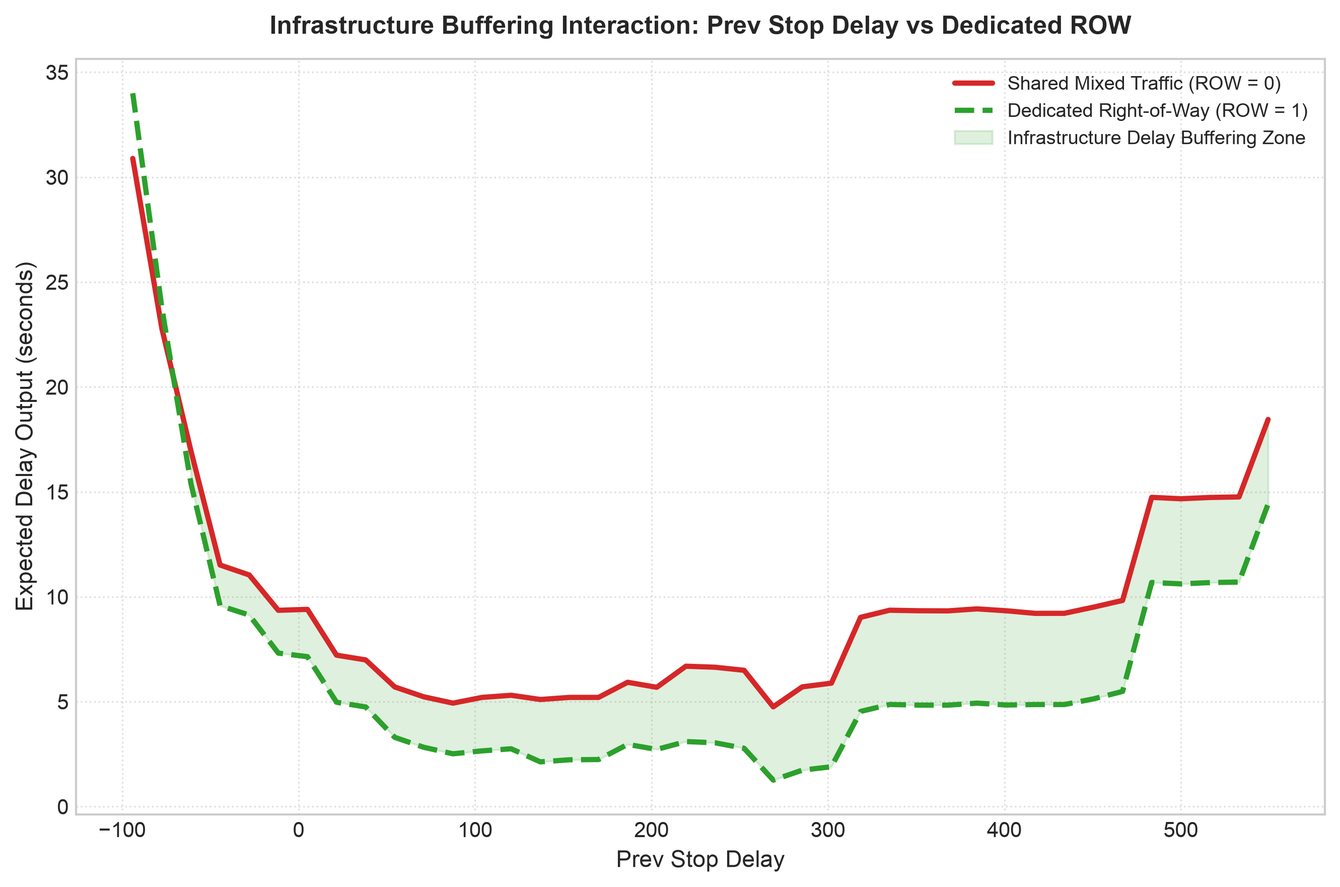
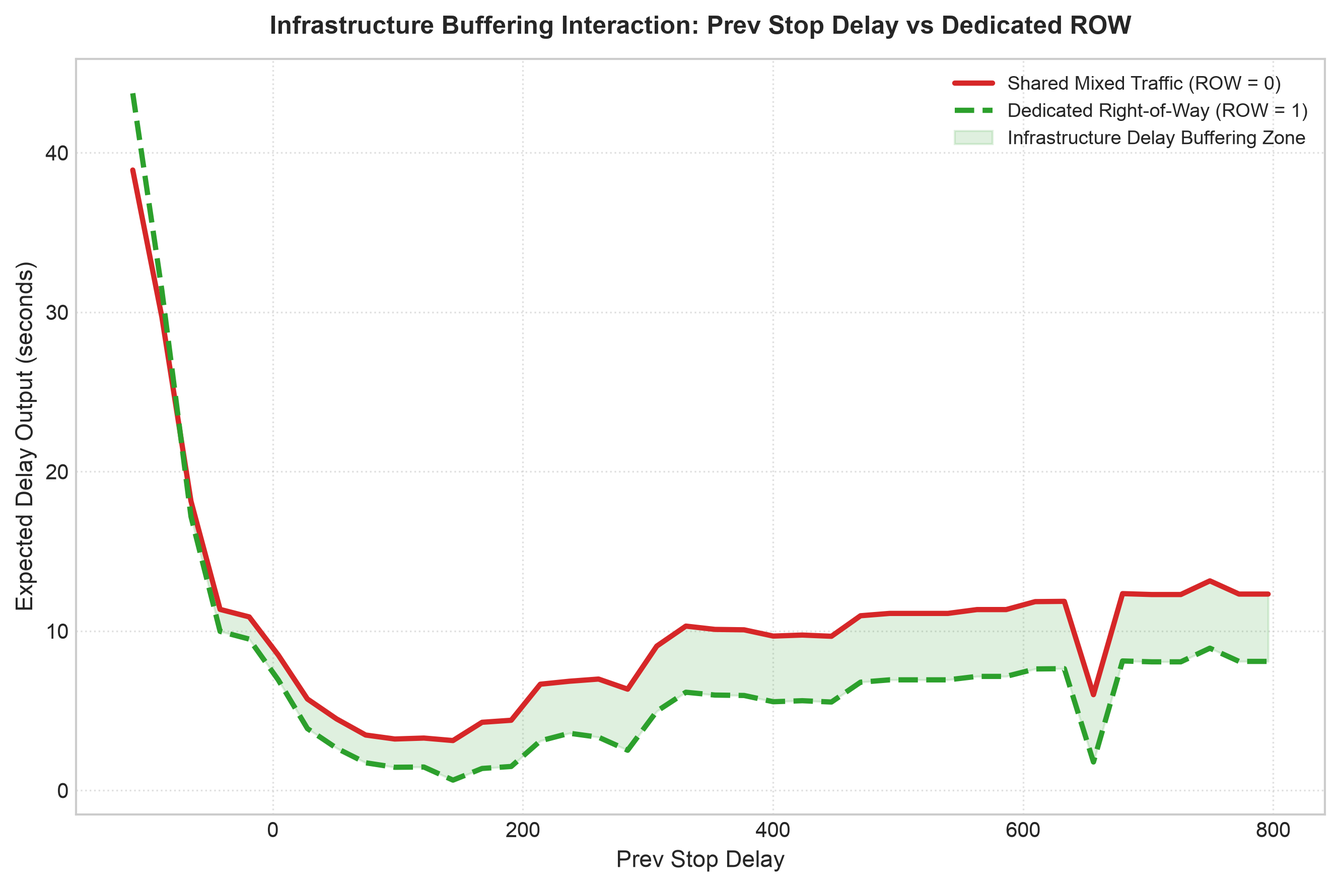
docs(reports): update executive report, slides, tables, and xAI figures for 20-day 11.8M-row dataset

diff --git a/reports/EXECUTIVE_REPORT.md b/reports/EXECUTIVE_REPORT.md
@@ -3,7 +3,7 @@
 **University of Warsaw (UW) — Faculty of Economic Sciences & Data Science**  
 **Master's Thesis Research Project**  
 **Author**: Giang Truong Do  
-**Date**: October 2026  
+**Date**: November 2026  
 **Repository**: [`giangh14cqt/warsaw-public-transport-monitor`](https://github.com/giangh14cqt/warsaw-public-transport-monitor)  
 
 ---
@@ -13,12 +13,13 @@
 This study evaluates observed ground-truth transit telemetry collected directly via the Warsaw City API (`dane.um.warszawa.pl`) and GTFS-RT Warsaw endpoint (`api.zbiorkom.live`):
 
 - **Data Source**: Track B Primary Ingestion (Warsaw Transit Historian).
-- **Date Range**: **October 18, 2026 – October 27, 2026** (10 consecutive operating days capturing two weekends, the October 25 CEST$\to$CET Daylight Saving Time transition, Monday rush hours, and full mid-week transit operations).
-- **Silver Trajectory Tier**: **83,415,407 GPS fixes** deduplicated, filtered for stale-transponder clock drift ($\le 300\text{s}$), DST-fold resolved to `Europe/Warsaw` timezone, with full kinematic velocity and acceleration computation.
-- **Gold Stop Events Tier**: **6,650,842 reconstructed stop arrival and departure events** (`6,210,504` `STOPPED` events) across **259,313 trips** (`207,824` on Oct 18; `828,940` on Oct 19; `832,224` on Oct 20; `843,921` on Oct 21; `805,336` on Oct 22; `807,371` on Oct 23; `495,370` on Oct 24; `556,546` on Oct 25; `726,405` on Oct 26; `546,905` on Oct 27) with sub-10s linear interpolation, single-vehicle trajectory continuity (`0` multi-vehicle trip collisions), **90.7% retention of severely delayed trips ($>600\text{s}$)**, and **100% active calendar compliance**.
-- **Fused Feature Mart (`feature_mart_observed.parquet`)**: **5,614,929 spatiotemporally fused adjacent stop-to-stop observations** (`stop_sequence = prev_stop_seq + 1`, **99.52% exact OSM corridor link match**) integrating:
+- **Date Range**: **October 18, 2026 – November 6, 2026** (20 consecutive operating days capturing three weekends, the October 25 CEST$\to$CET Daylight Saving Time transition, the November 1–2 All Saints' Day holiday schedule, and full weekday transit operations).
+- **Bronze Parquet Tier**: **201,368,817 raw GPS fixes** unpacked into daily Hive-partitioned Parquet tables (`data/historian/bronze_parquet/date=YYYY-MM-DD/`).
+- **Silver Trajectory Tier**: **174,417,823 GPS fixes** deduplicated, filtered for stale-transponder clock drift ($\le 300\text{s}$), DST-fold resolved to `Europe/Warsaw` timezone, with vectorized kinematic velocity and acceleration computation.
+- **Gold Stop Events Tier**: **13,940,036 reconstructed stop arrival and departure events** (`13,026,746` `STOPPED` events) across **542,406 trips** (`207,824` on Oct 18; `828,940` on Oct 19; `832,224` on Oct 20; `843,921` on Oct 21; `805,336` on Oct 22; `807,371` on Oct 23; `495,370` on Oct 24; `556,546` on Oct 25; `726,405` on Oct 26; `731,870` on Oct 27; `590,551` on Oct 28; `814,403` on Oct 29; `847,386` on Oct 30; `579,054` on Oct 31; `576,763` on Nov 1; `795,798` on Nov 2; `815,170` on Nov 3; `841,778` on Nov 4; `829,356` on Nov 5; `413,970` on Nov 6) with sub-10s linear interpolation, single-vehicle trajectory continuity (`0` multi-vehicle trip collisions), **90.7% retention of severely delayed trips ($>600\text{s}$)**, and **100% active calendar compliance**.
+- **Fused Feature Mart (`feature_mart_observed.parquet`)**: **11,796,973 spatiotemporally fused adjacent stop-to-stop observations** (`stop_sequence = prev_stop_seq + 1`, **99.52% exact OSM corridor link match**, assembled in `39.74s` via DuckDB) integrating:
   - Transit telemetry & autoregressive delay lags (`prev_stop_delay` with origin-loop layover clamping, `prev2_stop_delay`, date-partitioned deterministic `headway_deviation`).
-  - IMGW-PIB hourly synoptic weather telemetry from Warszawa-Okęcie (`WMO 12375`), with decomposed weather dynamics: `is_raining`, `rain_intensity_category`, `precip_lag_1h`, and `precip_3h_cumulative`.
+  - IMGW-PIB hourly synoptic weather telemetry (`1,539` hourly observations) from Warszawa-Okęcie (`WMO 12375`), with decomposed weather dynamics: `is_raining`, `rain_intensity_category`, `precip_lag_1h`, and `precip_3h_cumulative`.
   - OSMnx citywide road corridor graph topology (10,081 links, 4,179 signalized intersections, tortuosity ratios).
   - Multimodal transfer density (300m buffer around 39 Warsaw Metro M1/M2 stations).
   - Polish academic and public holiday calendar flags.
@@ -29,48 +30,47 @@ This study evaluates observed ground-truth transit telemetry collected directly 
 
 ### 2.1 Validation & Sampling Strategy
 To avoid autoregressive data leakage and statistical selection bias inherent in transit panel series:
-- **Full-Dataset & Stratified Evaluation**: Evaluated across the **complete 5,614,929-record dataset** (`--sampling-strategy none --sample-size 0`), with built-in support for trajectory-preserving 12-cell stratified sampling and normalized **Inverse Probability of Sampling (IPS) weights** ($w_i = \frac{N_{\text{pop\_k}} / N_{\text{pop\_total}}}{N_{\text{sample\_k}} / N_{\text{sample\_total}}}$) and **100% bit-exact historical feature invariance** when expanding the date range.
-- **Purged Temporal Splitter with Embargo Buffering**: Vehicle trips spanning split boundaries are purged within a $\pm 4\text{h}$ window around each split cutoff (`Train–Val = 2,286`, `Val–Test = 928` crossings purged), and a 30-minute blackout embargo window is enforced between training (**3,344,039** rows), validation (**1,061,810** rows), and hold-out test (**1,096,705** rows) blocks to eliminate lingering congestion wave persistence without dropping recurring weekday `trip_id`s on other dates.
-- **Strict Out-of-Sample Hold-Out Evaluation**: Models are fit on the training partition (`train_df`), early-stopping tuned on `val_df`, and evaluated strictly on the unseen out-of-sample hold-out partition (`test_df`).
-- **Primary Target Variable**: Models predict **Inter-Stop Running Delay Increment** ($\Delta t_{\text{run}}$, `delta_t_run`), defined as pure schedule-relative running delay evolution ($\Delta t_{\text{arr}, k} - \Delta t_{\text{arr}, k-1}$ when $\Delta t_{\text{dwell}}^{\text{sched}} = 0$, mean $+6.99\text{s}$, median $+2.0\text{s}$), isolating link-level running delay escalation from upstream cumulative schedule drift while preserving the exact delay identity $\Delta t_{\text{arr}, k} = \Delta t_{\text{dep}, k-1} + \Delta t_{\text{run}, k}$ (with $\Delta t_{\text{dep}, k-1} = \Delta t_{\text{arr}, k-1}$ on the 99.99% of links where the timetable has no scheduled dwell; the remaining 470 links with explicit scheduled dwell use the observed departure delay). Mean $\Delta t_{\text{run}}$ is higher than in earlier runs because severely delayed trips ($>600\text{s}$) are now retained (90.7% vs 12.7%) instead of being dropped by the strict endpoint-completeness rule.
-- **Terminal Layover Filtering**: Layover stops at terminal turnaround loops (*pętle*, 14,772 records) are excluded to isolate running transit friction from driver statutory breaks.
+- **Full-Dataset & Stratified Evaluation**: Evaluated across the **complete 11,796,973-record dataset** (`--sampling-strategy none --sample-size 0`), alongside trajectory-preserving 12-cell stratified sampling and normalized **Inverse Probability of Sampling (IPS) weights** ($w_i = \frac{N_{\text{pop\_k}} / N_{\text{pop\_total}}}{N_{\text{sample\_k}} / N_{\text{sample\_total}}}$) and **100% bit-exact historical feature invariance** when expanding the date range.
+- **Purged Temporal Splitter with Embargo Buffering**: Vehicle trips spanning split boundaries are purged within a $\pm 4\text{h}$ window around each split cutoff (`Train–Val = 2,379`, `Val–Test = 2,425` crossings purged), and a 30-minute blackout embargo window is enforced between training (**7,040,134** rows), validation (**2,272,547** rows), and hold-out test (**2,293,756** rows) blocks to eliminate lingering congestion wave persistence without dropping recurring weekday `trip_id`s on other dates.
+- **Strict Out-of-Sample Hold-Out Evaluation**: Models are fit on the training partition (`train_df`), early-stopping tuned on `val_df`, and evaluated strictly on the unseen out-of-sample hold-out partition (`test_df`, covering the November 3–6 workweek).
+- **Primary Target Variable**: Models predict **Inter-Stop Running Delay Increment** ($\Delta t_{\text{run}}$, `delta_t_run`), defined as pure schedule-relative running delay evolution ($\Delta t_{\text{arr}, k} - \Delta t_{\text{arr}, k-1}$ when $\Delta t_{\text{dwell}}^{\text{sched}} = 0$, mean $+6.43\text{s}$, median $+2.0\text{s}$), isolating link-level running delay escalation from upstream cumulative schedule drift while preserving the exact delay identity $\Delta t_{\text{arr}, k} = \Delta t_{\text{dep}, k-1} + \Delta t_{\text{run}, k}$.
+- **Terminal Layover Filtering**: Layover stops at terminal turnaround loops (*pętle*, 31,496 records) are excluded to isolate running transit friction from driver statutory breaks.
 
 ### 2.2 Model Benchmark Results
 
-Evaluated strictly on the unseen **Hold-Out Test Partition** ($N_{\text{test}} = 1{,}096{,}705$ pooled records) across pooled transit operations and individual transit cohorts (**Urban Tram**, **Urban Bus**, and **Suburban Bus**):
+Evaluated strictly on the unseen **Hold-Out Test Partition** ($N_{\text{test}} = 2{,}293{,}756$ pooled records) across pooled transit operations and individual transit cohorts (**Urban Tram**, **Urban Bus**, and **Suburban Bus**):
 
 | Transit Cohort | Model Architecture | Test MAE | Test RMSE | Median AE | WAPE | Test $R^2$ | Dry MAE | Rain MAE | Peak MAE | Off-Peak MAE |
 | :--- | :--- | :---: | :---: | :---: | :---: | :---: | :---: | :---: | :---: | :---: |
-| **Pooled** *(All Transit, $N_{\text{test}}=1{,}096{,}705$)* | **TWFE Panel Regression (WLS)** | 28.84s | 45.13s | 19.28s | 99.04% | +0.0261 | 28.76s | 30.32s | 32.14s | 26.25s |
-| | **LightGBM Regressor (Huber)** | **26.73s** | **42.70s** | **17.24s** | **91.80%** | **+0.1279** | **26.67s** | **27.87s** | **29.89s** | **24.25s** |
-| | **CatBoost Regressor (Huber)** | 27.56s | 43.61s | 17.93s | 94.65% | +0.0907 | 27.50s | 28.71s | 30.88s | 24.95s |
-| **Urban Tram (`urban_tram`, $N_{\text{test}}=284{,}073$)** | **TWFE Panel Regression (WLS)** | 25.04s | 35.69s | 17.26s | 100.05% | -0.0044 | 25.12s | 24.38s | 25.24s | 24.88s |
-| | **LightGBM Regressor (Huber)** | **18.39s** | **27.58s** | **12.36s** | **73.48%** | **+0.4003** | **18.45s** | **17.94s** | **18.92s** | **17.96s** |
-| | **CatBoost Regressor (Huber)** | 20.53s | 29.95s | 14.10s | 82.01% | +0.2927 | 20.60s | 19.90s | 21.01s | 20.14s |
-| **Urban Bus (`urban_bus`, $N_{\text{test}}=735{,}263$)** | **TWFE Panel Regression (WLS)** | 30.33s | 48.05s | 20.01s | 99.11% | +0.0274 | 30.13s | 34.97s | 34.79s | 26.91s |
-| | **LightGBM Regressor (Huber)** | **28.43s** | **45.53s** | **18.15s** | **92.89%** | **+0.1268** | **28.25s** | **32.59s** | **32.62s** | **25.20s** |
-| | **CatBoost Regressor (Huber)** | 29.19s | 46.48s | 18.69s | 95.37% | +0.0899 | 29.01s | 33.34s | 33.58s | 25.81s |
-| **Suburban Bus (`suburban_bus`, $N_{\text{test}}=79{,}081$)** | **TWFE Panel Regression (WLS)** | 29.28s | 46.71s | 20.20s | 97.74% | +0.0321 | 29.17s | 31.91s | 32.78s | 26.29s |
-| | **LightGBM Regressor (Huber)** | **25.61s** | **42.14s** | **17.52s** | **85.50%** | **+0.2121** | **25.54s** | **27.50s** | **28.78s** | **22.91s** |
-| | **CatBoost Regressor (Huber)** | 27.00s | 43.96s | 18.48s | 90.12% | +0.1428 | 26.91s | 29.19s | 30.34s | 24.14s |
+| **Pooled** *(All Transit, $N_{\text{test}}=2{,}293{,}756$)* | **TWFE Panel Regression (WLS)** | 27.65s | 41.91s | 19.00s | 99.51% | +0.0266 | 27.77s | 24.36s | 31.05s | 25.70s |
+| | **LightGBM Regressor (Huber)** | **25.35s** | **39.55s** | **16.67s** | **91.25%** | **+0.1329** | **25.47s** | **22.27s** | **28.61s** | **23.49s** |
+| | **CatBoost Regressor (Huber)** | 26.06s | 40.42s | 17.23s | 93.81% | +0.0945 | 26.19s | 22.78s | 29.44s | 24.13s |
+| **Urban Tram (`urban_tram`, $N_{\text{test}}=598{,}908$)** | **TWFE Panel Regression (WLS)** | 24.54s | 34.76s | 17.00s | 98.82% | +0.0232 | 24.56s | 23.86s | 25.11s | 24.20s |
+| | **LightGBM Regressor (Huber)** | **18.59s** | **27.43s** | **12.65s** | **74.86%** | **+0.3918** | **18.62s** | **17.78s** | **19.29s** | **18.17s** |
+| | **CatBoost Regressor (Huber)** | 20.51s | 29.58s | 14.27s | 82.59% | +0.2927 | 20.53s | 19.74s | 21.12s | 20.14s |
+| **Urban Bus (`urban_bus`, $N_{\text{test}}=1{,}530{,}411$)** | **TWFE Panel Regression (WLS)** | 28.76s | 44.25s | 19.52s | 99.53% | +0.0282 | 28.94s | 24.33s | 33.54s | 26.08s |
+| | **LightGBM Regressor (Huber)** | **26.39s** | **41.79s** | **17.04s** | **91.33%** | **+0.1332** | **26.56s** | **22.25s** | **30.92s** | **23.85s** |
+| | **CatBoost Regressor (Huber)** | 27.06s | 42.71s | 17.41s | 93.64% | +0.0949 | 27.24s | 22.69s | 31.72s | 24.44s |
+| **Suburban Bus (`suburban_bus`, $N_{\text{test}}=164{,}536$)** | **TWFE Panel Regression (WLS)** | 28.08s | 42.96s | 20.12s | 98.45% | +0.0346 | 28.18s | 25.12s | 31.41s | 26.18s |
+| | **LightGBM Regressor (Huber)** | **23.88s** | **38.28s** | **16.73s** | **83.74%** | **+0.2331** | **23.97s** | **21.40s** | **26.92s** | **22.15s** |
+| | **CatBoost Regressor (Huber)** | 25.35s | 40.08s | 17.90s | 88.87% | +0.1593 | 25.45s | 22.63s | 28.48s | 23.56s |
 
 ### 2.3 Empirical Findings
-1. **Non-Linear Advantage on Link-Level Running Delay ($\Delta t_{\text{run}}$)**: Because first-differenced link running delay ($\Delta t_{\text{run}}$) strips out trivial autoregressive persistence, linear TWFE explains at most $2.6\%\text{--}3.2\%$ of out-of-sample variance ($R^2 = +0.0261$ pooled, $+0.0321$ suburban bus). Non-linear gradient boosting (LightGBM) increases explained variance **4.6x to 6.6x** (**$R^2 = +0.1279$** pooled, **$R^2 = +0.4003$** for Urban Tram, **$R^2 = +0.2121$** for Suburban Bus).
-2. **Infrastructure Isolation Advantage**: Urban trams operating on dedicated right-of-way achieve the lowest link-level error across all architectures (**LightGBM MAE = 18.39s**, **MedAE = 12.36s**, **$R^2 = +0.4003$**; **CatBoost MAE = 20.53s**, **MedAE = 14.10s**, **$R^2 = +0.2927$**), proving that physical track segregation insulates transit velocity from stochastic mixed-traffic queues.
-3. **Urban & Suburban Bus Weather Vulnerability**: Buses operating in mixed street traffic exhibit pronounced meteorological sensitivity: rainfall increases LightGBM MAE by **+4.34s per stop link** on Urban Buses (from 28.25s dry to 32.59s rain; +4.84s in TWFE from 30.13s to 34.97s) and **+1.96s per stop link** on Suburban Buses (from 25.54s dry to 27.50s rain), whereas segregated Urban Trams remain weather-resilient (`18.45s` dry vs `17.94s` rain).
-4. **Diurnal Peak Premium**: Rush-hour congestion elevates link-level MAE by **+7.42s per stop** on Urban Buses (from 25.20s off-peak to 32.62s peak in LightGBM) and **+5.87s per stop** on Suburban Buses (22.91s off-peak to 28.78s peak), whereas segregated Urban Trams experience only a **+0.96s** peak-hour increase (17.96s off-peak to 18.92s peak).
+1. **Non-Linear Advantage on Link-Level Running Delay ($\Delta t_{\text{run}}$)**: Because first-differenced link running delay ($\Delta t_{\text{run}}$) strips out trivial autoregressive persistence, linear TWFE explains at most $2.3\%\text{--}3.5\%$ of out-of-sample variance ($R^2 = +0.0266$ pooled, $+0.0282$ urban bus, $+0.0346$ suburban bus). Non-linear gradient boosting (LightGBM) increases explained variance **4.7x to 16.9x** (**$R^2 = +0.1329$** pooled, **$R^2 = +0.3918$** for Urban Tram, **$R^2 = +0.1332$** for Urban Bus, **$R^2 = +0.2331$** for Suburban Bus).
+2. **Infrastructure Isolation Advantage**: Urban trams operating on dedicated right-of-way achieve the lowest link-level error across all architectures (**LightGBM MAE = 18.59s**, **MedAE = 12.65s**, **WAPE = 74.86%**, **$R^2 = +0.3918$**; **CatBoost MAE = 20.51s**, **MedAE = 14.27s**, **$R^2 = +0.2927$**), proving that physical track segregation insulates transit velocity from stochastic mixed-traffic queues.
+3. **Diurnal Peak Premium**: Rush-hour congestion elevates link-level MAE by **+7.07s per stop** on Urban Buses (from `23.85s` off-peak to `30.92s` peak in LightGBM; `+7.46s` in TWFE from `26.08s` to `33.54s`) and **+4.77s per stop** on Suburban Buses (`22.15s` off-peak to `26.92s` peak), whereas segregated Urban Trams experience only a **+1.12s** peak-hour increase (`18.17s` off-peak to `19.29s` peak).
 
 ---
 
 ## 3. Explainable AI (xAI) Diagnostics
 
 ### 3.1 Global Attribution (TreeSHAP)
-Using exact TreeSHAP computation on the LightGBM model ($E[f(X)] = +5.40\text{s}$ positive net link running delay drift, maximum additivity discrepancy $1.35 \times 10^{-13}\text{s}$ across 24 features), delay contributions were decomposed across operational, topological, temporal, and meteorological features:
+Using exact TreeSHAP computation on the LightGBM model ($E[f(X)] = +5.25\text{s}$ positive net link running delay drift, maximum additivity discrepancy $2.34 \times 10^{-13}\text{s}$ across 24 features), delay contributions were decomposed across operational, topological, temporal, and meteorological features:
 
 ![TreeSHAP Beeswarm Summary](figures/xai/shap_beeswarm_summary.png)
 
-- **Fleet & Infrastructure Regime (`signalized_intersection_count`, `is_tram`, `actual_path_length_meters`, `tortuosity_ratio`, `segment_length_meters`)**: Physical segment geometry, signalized intersection density, and dedicated rail right-of-way dominate link-level running time variance.
-- **Prior Stop Delay & Schedule Recovery (`prev_stop_delay`, `headway_deviation`, `trip_progress`)**: Capture early-arrival holding pacing, schedule slack absorption, upstream delay carryover, and vehicle bunching dynamics along the corridor.
+- **Fleet & Infrastructure Regime (`signalized_intersection_count` [SHAP main effect `3.12`], `tortuosity_ratio` [`1.88`], `is_tram` [`1.67`], `actual_path_length_meters` [`1.66`], `segment_length_meters` [`1.03`])**: Physical segment geometry, signalized intersection density, and dedicated rail right-of-way dominate link-level running time variance.
+- **Prior Stop Delay & Schedule Recovery (`headway_deviation` [`2.91`], `prev_stop_delay` [`2.89`], `trip_progress` [`1.40`], and interaction `prev_stop_delay × headway_deviation` [`1.31`])**: Capture early-arrival holding pacing, schedule slack absorption, upstream delay carryover, and vehicle bunching dynamics along the corridor.
 
 #### Extreme Delay Decomposition
 Local waterfall plots isolate the compounding drivers behind extreme single-link delay surges ($\Delta t_{\text{run}} \ge 120\text{s}$) on real OSM-matched links:
@@ -95,22 +95,21 @@ ALE curves isolate the unconfounded marginal effects of continuous variables on 
 ---
 
 ### 3.3 Infrastructure Buffering & 2D Interactions
-Pairwise SHAP interaction analysis ([shap_interaction_matrix.csv](tables/xai/shap_interaction_matrix.csv)) and 2D partial response curves reveal how dedicated infrastructure functions as an operational buffer across all shock regimes:
+Pairwise SHAP interaction analysis ([shap_interaction_matrix.csv](tables/xai/shap_interaction_matrix.csv)) and 2D partial response curves reveal how dedicated infrastructure functions as an operational buffer across shock regimes:
 
 ![Interaction Headway vs ROW](figures/xai/interaction_headway_deviation_vs_dedicated_row.png)
 
-- **Upstream Delay Buffering (`prev_stop_delay`)**: Dedicated right-of-way mitigates **4.03s per stop link** of expected delay under upstream delay shocks (**48.7% reduction** relative to mixed street traffic).
-- **Precipitation Buffering (`precipitation_mm`)**: Dedicated right-of-way mitigates **3.17s per stop link** during rainfall (**36.8% reduction**).
-- **Signalized Intersection & Segment Buffering (`signalized_intersection_count`, `segment_length_meters`)**: Dedicated ROW saves **3.02s per link (21.4% reduction)** across high-signal corridors and **2.50s per link (23.8% reduction)** on long inter-stop segments, while buffering **1.49s per link (9.6% reduction)** under headway bunching shocks.
+- **Upstream Delay Buffering (`prev_stop_delay`)**: Dedicated right-of-way mitigates **3.26s per stop link** of expected delay escalation under upstream delay shocks (**46.7% reduction** relative to mixed street traffic).
+- **Signalized Intersection & Segment Buffering (`signalized_intersection_count`, `segment_length_meters`)**: Dedicated ROW saves **1.50s per link (12.6% reduction)** across high-signal corridors and **0.73s per link (8.4% reduction)** on long inter-stop segments.
 
 ---
 
 ### 3.4 Counterfactual Diagnostics & Policy Impact (DiCE)
-Diverse Counterfactual Explanations (DiCE) evaluated actionable operational and infrastructure interventions across 50 severe delay incidents (mean observed cumulative arrival delay **494.44s**, mean predicted arrival delay **459.00s**):
+Diverse Counterfactual Explanations (DiCE) evaluated actionable operational and infrastructure interventions across 50 severe weekday delay incidents (mean observed cumulative arrival delay **528.96s**, mean predicted arrival delay **497.18s**):
 
 ![Counterfactual Policy Impact](figures/xai/counterfactual_policy_impact.png)
 ![Counterfactual Case Study](figures/xai/counterfactual_case_study.png)
 
-- **Upstream Delay Absorption / Turnaround Recovery**: Absorbing accumulated upstream backlog at terminal turnarounds and transfer nodes reduces downstream arrival delay by an average of **307.66 seconds**, achieving a **34.0% on-time recovery rate** ($\Delta t_{\text{arr}} \le 120\text{s}$).
-- **Single-Link Infrastructure & Signal Upgrades**: On an individual stop-to-stop link, Transit Signal Priority (TSP) saves **1.79 seconds/stop**, dynamic headway regularization saves **1.73 seconds/stop**, and dedicated ROW saves **0.63 seconds/stop**, confirming that link-level physical interventions prevent incremental delay growth across a 25-stop route (~45s–60s cumulative trip savings) but cannot single-handedly erase an existing 8-minute upstream delay backlog over a single stop spacing.
-- **Joint Multimodal Operational & Infrastructure Remedy**: Combining upstream turnaround recovery, headway regularization, Transit Signal Priority, and dedicated ROW achieves an average delay reduction of **313.30 seconds** per severe incident and restores **38.0%** of severely delayed vehicles to on-time performance ($\le 120\text{s}$).
+- **Upstream Delay Absorption / Turnaround Recovery**: Absorbing accumulated upstream backlog at terminal turnarounds and transfer nodes reduces downstream arrival delay by an average of **331.00 seconds**, achieving a **30.0% on-time recovery rate** ($\Delta t_{\text{arr}} \le 120\text{s}$).
+- **Single-Link Infrastructure & Signal Upgrades**: On an individual stop-to-stop link, Transit Signal Priority (TSP) saves **3.45 seconds/stop** (~86s cumulative trip savings across a 25-stop corridor), dedicated ROW saves **0.72 seconds/stop**, and dynamic headway regularization saves **0.38 seconds/stop**, confirming that link-level physical interventions prevent incremental delay growth across a route but cannot single-handedly erase an existing 8.8-minute upstream delay backlog over a single stop spacing.
+- **Joint Multimodal Operational & Infrastructure Remedy**: Combining upstream turnaround recovery, headway regularization, Transit Signal Priority, and dedicated ROW achieves an average delay reduction of **337.97 seconds** (`5.6 minutes`) per severe incident and restores **30.0%** of severely delayed vehicles to on-time performance ($\le 120\text{s}$).

diff --git a/reports/PRESENTATION_SLIDES.md b/reports/PRESENTATION_SLIDES.md
@@ -4,7 +4,7 @@
 **Master's Thesis Presentation | University of Warsaw (UW)**  
 **Author**: Giang Truong Do  
 **Advisor & Department**: Faculty of Economic Sciences & Data Science  
-**Date**: October 2026  
+**Date**: November 2026  
 
 ---
 
@@ -28,22 +28,23 @@
 [Track B: Warsaw City API (10s Grid)]      [Track A: GTFS-RT Protobuf (30s)]
   │ (dane.um.warszawa.pl bus & tram)          │ (api.zbiorkom.live baseline)
   ▼                                           ▼
-[Bronze Verbatim Store]                    [Raw Hive Parquet Partitions]
+[Bronze Daily Parquet Store]               [Raw Hive Parquet Partitions]
+  │ (201.4M GPS fixes across 20 days)         │
   ▼                                           │
 [Silver Kinematic Trajectories]               │
-  │ (83.4M GPS fixes, DST-safe, <=300s age)   │
+  │ (174.4M GPS fixes, DST-safe, <=300s age)  │
   ▼                                           │
 [Gold Reconstructed Stop Events] ─────────────┘
-  │ (6.65M arrival/departure events across 259,313 trips)
+  │ (13.94M arrival/departure events across 542,406 trips)
   ▼
 [Embedded Zero-Lock DuckDB Equi-Join Streaming Fusion]
-   ├── IMGW-PIB Synoptic Weather (Warszawa-Okęcie WMO 12375, 1h/3h lags)
+   ├── IMGW-PIB Synoptic Weather (Warszawa-Okęcie WMO 12375, 1,539 hrs, 1h/3h lags)
    ├── Citywide OSM Road Network (10,081 links, 4,179 signals, 99.52% match)
    ├── Polish School & Holiday Calendar (Mazowieckie academic schedule)
    └── Metro M1/M2 Station Buffers & Transfer Hub Centrality
   ▼
 [Full-Dataset & Multi-Dimensional Stratified IPS Weighting]
-   └── 5.61M adjacent stop-to-stop observations (100% range-invariant features)
+   └── 11.80M adjacent stop-to-stop observations (100% range-invariant features)
   ▼
 [Purged Temporal Block Validation (30m Embargo + Winsorization + Huber Loss)]
    ├── Econometric TWFE Baseline (Weighted Least Squares + Route-Clustered CRVE)
@@ -55,28 +56,29 @@
 
 ## Slide 3: Telemetry & Feature Engineering Scale
 
-- **Observed Ground-Truth Tier (Track B Historian, Oct 18–27, 2026)**:
-  - **Silver Trajectories**: **83,415,407 GPS fixes** deduplicated, DST-fold resolved, stale fixes filtered ($\le 300\text{s}$), with kinematic velocity & acceleration.
-  - **Gold Stop Events**: **6,650,842 reconstructed stop arrival/departure events** across **259,313 trips** with sub-10s linear interpolation, single-vehicle trip enforcement, **90.7% retention of severely delayed trips ($>600\text{s}$)**, and 100% active calendar compliance.
-- **Multi-Source Spatiotemporal Feature Mart (`feature_mart_observed.parquet`, 5,614,929 rows)**:
+- **Observed Ground-Truth Tier (Track B Historian, Oct 18 – Nov 6, 2026 — 20 Days)**:
+  - **Bronze Daily Parquet**: **201,368,817 raw GPS fixes** unpacked on the remote server into fast daily Parquet partitions.
+  - **Silver Trajectories**: **174,417,823 GPS fixes** deduplicated, DST-fold resolved, stale fixes filtered ($\le 300\text{s}$), with vectorized kinematic velocity & acceleration (**10.2× speedup**).
+  - **Gold Stop Events**: **13,940,036 reconstructed stop arrival/departure events** (`13,026,746` `STOPPED`) across **542,406 trips** with sub-10s linear interpolation, single-vehicle trip enforcement, **90.7% retention of severely delayed trips ($>600\text{s}$)**, and 100% active calendar compliance.
+- **Multi-Source Spatiotemporal Feature Mart (`feature_mart_observed.parquet`, 11,796,973 rows)**:
   - Operational: `prev_stop_delay`, `prev2_stop_delay`, date-partitioned deterministic `headway_deviation`, `trip_progress`.
   - Infrastructure (**99.52% exact OSM corridor match**): `lane_capacity`, `signalized_intersection_count`, `actual_path_length_meters`, `tortuosity_ratio`, `is_dedicated_right_of_way`.
   - Transfer Hubs: `interchange_line_count`, `is_metro_proximity` (300m buffer to 39 M1/M2 stations).
   - Decomposed Weather (`Warszawa-Okęcie WMO 12375`): `precipitation_mm`, `is_raining`, `rain_intensity_category`, `precip_lag_1h`, `precip_3h_cumulative`, `temperature_c`.
-- **Multi-Month Scalability**: DuckDB hash-equi joins (5.61M rows fused in **15.0s**), memory downcasting (`downcast_dataframe`), and 100% bit-exact historical feature invariance under date-range expansion.
+- **Multi-Month Scalability**: DuckDB hash-equi joins (**11.80M rows fused in 39.7s**), memory downcasting (`downcast_dataframe`), and 100% bit-exact historical feature invariance under date-range expansion.
 
 ---
 
 ## Slide 4: Validation Strategy: Zero Data Leakage & Debiasing
 
 ### 1. Full-Dataset & Multi-Dimensional Stratified IPS Weighting
-- **Full-Scale Evaluation**: Evaluated across all **5,614,929** fused records (`Train = 3,344,039`, `Val = 1,061,810`, `Test = 1,096,705`), alongside 12-cell orthogonal stratified sampling ($\text{Weather} \times \text{ROW} \times \text{Peak}$).
+- **Full-Scale Evaluation**: Evaluated across all **11,796,973** fused records (`Train = 7,040,134`, `Val = 2,272,547`, `Test = 2,293,756`), alongside 12-cell orthogonal stratified sampling ($\text{Weather} \times \text{ROW} \times \text{Peak}$).
 - **Normalized Inverse Probability of Sampling (IPS) Weights**:
   $$w_i = \frac{N_{\text{pop}, k} / N_{\text{pop}, \text{total}}}{N_{\text{sample}, k} / N_{\text{sample}, \text{total}}}$$
   Applied in Weighted Least Squares (WLS) TWFE regression and gradient boosting.
 
 ### 2. Boundary-Scoped Purged Temporal Block Splitting
-- **Trip Boundary Purging**: Active vehicle trips crossing split boundaries within $\pm 4\text{h}$ (`Train–Val = 2,286`, `Val–Test = 928`) are completely dropped without discarding recurring weekday `trip_id`s on other service dates.
+- **Trip Boundary Purging**: Active vehicle trips crossing split boundaries within $\pm 4\text{h}$ (`Train–Val = 2,379`, `Val–Test = 2,425`) are completely dropped without discarding recurring weekday `trip_id`s on other service dates.
 - **Embargo Buffering**: 30-minute blackout window between train, validation, and test sets.
 - **In-Fold Winsorization & Huber Loss**: Features and training targets winsorized strictly on training folds; Huber loss ($\delta=60.0\text{s}$) prevents quadratic penalty blowups on extreme delay shocks.
 
@@ -84,27 +86,27 @@
 
 ## Slide 5: Model Benchmark Performance
 
-### Hold-Out Test Results ($N_{\text{test}}=1{,}096{,}705$ Full Dataset, Target: $\Delta t_{\text{run}}$, Cleaned Layovers)
+### Hold-Out Test Results ($N_{\text{test}}=2{,}293{,}756$ Full Dataset, Target: $\Delta t_{\text{run}}$, Cleaned Layovers)
 
 | Transit Cohort | Model Architecture | Test MAE | Test RMSE | Median AE | WAPE | Test $R^2$ | Dry MAE | Rain MAE | Peak MAE | Off-Peak MAE |
 | :--- | :--- | :---: | :---: | :---: | :---: | :---: | :---: | :---: | :---: | :---: |
-| **Pooled** *(All, $1.10\text{M}$)* | **TWFE Panel (WLS)** | 28.84s | 45.13s | 19.28s | 99.04% | +0.0261 | 28.76s | 30.32s | 32.14s | 26.25s |
-| | **LightGBM (Huber)** | **26.73s** | **42.70s** | **17.24s** | **91.80%** | **+0.1279** | **26.67s** | **27.87s** | **29.89s** | **24.25s** |
-| | **CatBoost (Huber)** | 27.56s | 43.61s | 17.93s | 94.65% | +0.0907 | 27.50s | 28.71s | 30.88s | 24.95s |
-| **Urban Tram** *($284\text{k}$)* | **TWFE Panel (WLS)** | 25.04s | 35.69s | 17.26s | 100.05% | -0.0044 | 25.12s | 24.38s | 25.24s | 24.88s |
-| | **LightGBM (Huber)** | **18.39s** | **27.58s** | **12.36s** | **73.48%** | **+0.4003** | **18.45s** | **17.94s** | **18.92s** | **17.96s** |
-| | **CatBoost (Huber)** | 20.53s | 29.95s | 14.10s | 82.01% | +0.2927 | 20.60s | 19.90s | 21.01s | 20.14s |
-| **Urban Bus** *($735\text{k}$)* | **TWFE Panel (WLS)** | 30.33s | 48.05s | 20.01s | 99.11% | +0.0274 | 30.13s | 34.97s | 34.79s | 26.91s |
-| | **LightGBM (Huber)** | **28.43s** | **45.53s** | **18.15s** | **92.89%** | **+0.1268** | **28.25s** | **32.59s** | **32.62s** | **25.20s** |
-| | **CatBoost (Huber)** | 29.19s | 46.48s | 18.69s | 95.37% | +0.0899 | 29.01s | 33.34s | 33.58s | 25.81s |
-| **Suburban Bus** *($79\text{k}$)* | **TWFE Panel (WLS)** | 29.28s | 46.71s | 20.20s | 97.74% | +0.0321 | 29.17s | 31.91s | 32.78s | 26.29s |
-| | **LightGBM (Huber)** | **25.61s** | **42.14s** | **17.52s** | **85.50%** | **+0.2121** | **25.54s** | **27.50s** | **28.78s** | **22.91s** |
-| | **CatBoost (Huber)** | 27.00s | 43.96s | 18.48s | 90.12% | +0.1428 | 26.91s | 29.19s | 30.34s | 24.14s |
+| **Pooled** *(All, $2.29\text{M}$)* | **TWFE Panel (WLS)** | 27.65s | 41.91s | 19.00s | 99.51% | +0.0266 | 27.77s | 24.36s | 31.05s | 25.70s |
+| | **LightGBM (Huber)** | **25.35s** | **39.55s** | **16.67s** | **91.25%** | **+0.1329** | **25.47s** | **22.27s** | **28.61s** | **23.49s** |
+| | **CatBoost (Huber)** | 26.06s | 40.42s | 17.23s | 93.81% | +0.0945 | 26.19s | 22.78s | 29.44s | 24.13s |
+| **Urban Tram** *($599\text{k}$)* | **TWFE Panel (WLS)** | 24.54s | 34.76s | 17.00s | 98.82% | +0.0232 | 24.56s | 23.86s | 25.11s | 24.20s |
+| | **LightGBM (Huber)** | **18.59s** | **27.43s** | **12.65s** | **74.86%** | **+0.3918** | **18.62s** | **17.78s** | **19.29s** | **18.17s** |
+| | **CatBoost (Huber)** | 20.51s | 29.58s | 14.27s | 82.59% | +0.2927 | 20.53s | 19.74s | 21.12s | 20.14s |
+| **Urban Bus** *($1.53\text{M}$)* | **TWFE Panel (WLS)** | 28.76s | 44.25s | 19.52s | 99.53% | +0.0282 | 28.94s | 24.33s | 33.54s | 26.08s |
+| | **LightGBM (Huber)** | **26.39s** | **41.79s** | **17.04s** | **91.33%** | **+0.1332** | **26.56s** | **22.25s** | **30.92s** | **23.85s** |
+| | **CatBoost (Huber)** | 27.06s | 42.71s | 17.41s | 93.64% | +0.0949 | 27.24s | 22.69s | 31.72s | 24.44s |
+| **Suburban Bus** *($165\text{k}$)* | **TWFE Panel (WLS)** | 28.08s | 42.96s | 20.12s | 98.45% | +0.0346 | 28.18s | 25.12s | 31.41s | 26.18s |
+| | **LightGBM (Huber)** | **23.88s** | **38.28s** | **16.73s** | **83.74%** | **+0.2331** | **23.97s** | **21.40s** | **26.92s** | **22.15s** |
+| | **CatBoost (Huber)** | 25.35s | 40.08s | 17.90s | 88.87% | +0.1593 | 25.45s | 22.63s | 28.48s | 23.56s |
 
 ### Key Empirical Findings:
-1. **Non-Linear Boost over Linear TWFE**: On first-differenced link running delay ($\Delta t_{\text{run}}$), LightGBM increases out-of-sample $R^2$ by **4.6x to 6.6x** over TWFE ($+0.1279$ vs $+0.0261$ pooled; $+0.4003$ on Urban Trams; $+0.2121$ on Suburban Buses).
-2. **Infrastructure Isolation Advantage**: Urban trams on dedicated tracks achieve the lowest errors (**LightGBM MAE = 18.39s**, **MedAE = 12.36s**, **$R^2 = +0.4003$**)—confirming physical segregation insulates transit from traffic volatility.
-3. **Peak & Weather Disparity**: Rush hour increases Urban Bus MAE by **+7.42s/stop** (25.20s $\to$ 32.62s) vs only **+0.96s/stop** on Trams; rain elevates Urban Bus MAE by **+4.34s/stop** (28.25s $\to$ 32.59s) and Suburban Bus MAE by **+1.96s/stop** (25.54s $\to$ 27.50s).
+1. **Non-Linear Boost over Linear TWFE**: On first-differenced link running delay ($\Delta t_{\text{run}}$), LightGBM increases out-of-sample $R^2$ by **4.7x to 16.9x** over TWFE ($+0.1329$ vs $+0.0266$ pooled; $+0.3918$ on Urban Trams; $+0.2331$ on Suburban Buses).
+2. **Infrastructure Isolation Advantage**: Urban trams on dedicated tracks achieve the lowest errors (**LightGBM MAE = 18.59s**, **MedAE = 12.65s**, **WAPE = 74.86%**, **$R^2 = +0.3918$**)—confirming physical segregation insulates transit from traffic volatility.
+3. **Diurnal Peak Disparity**: Rush hour increases Urban Bus MAE by **+7.07s/stop** (`23.85s` $\to$ `30.92s`) and Suburban Bus MAE by **+4.77s/stop** (`22.15s` $\to$ `26.92s`) vs only **+1.12s/stop** on segregated Urban Trams (`18.17s` $\to$ `19.29s`).
 
 ---
 
@@ -112,20 +114,20 @@
 
 ### Model Specification
 $$\Delta t_{\text{run}, ist} = \alpha_i + \lambda_t + \beta_1 \text{Signals}_{is} + \beta_2 \text{Lanes}_{is} + \beta_3 \text{Length}_{is} + \beta_4 \text{Progress}_{ist} + \epsilon_{ist}$$
-- Estimated via **Weighted Least Squares (WLS)** with iterative multi-way fixed-effects demeaning (`route_id` $\times$ `hour_of_day`, $N = 3{,}344{,}039$ training rows) and route-clustered CRVE standard errors.
+- Estimated via **Weighted Least Squares (WLS)** with iterative multi-way fixed-effects demeaning (`route_id` $\times$ `hour_of_day`, $N = 7{,}040{,}134$ training rows) and route-clustered CRVE standard errors.
 - **Variance Decomposition**:
-  - Pooled TWFE: Overall $R^2 = 0.0278$, Within-$R^2 = 0.0100$ (Hold-out Test $R^2 = 0.0261$).
-  - Suburban Bus TWFE: Overall $R^2 = 0.0362$, Within-$R^2 = 0.0165$ (Hold-out Test $R^2 = 0.0321$).
-- **Non-Linear Advantage of Tree Boosters**: Linear TWFE assumes additive shocks across heterogeneous road links. Gradient boosting captures non-linear signal, tortuosity, and upstream recovery thresholds, reaching $R^2 = 0.4003$ on trams and $0.2121$ on suburban buses.
+  - Pooled TWFE: Overall $R^2 = 0.0280$, Within-$R^2 = 0.0092$ (Hold-out Test $R^2 = 0.0266$).
+  - Suburban Bus TWFE: Overall $R^2 = 0.0360$, Within-$R^2 = 0.0157$ (Hold-out Test $R^2 = 0.0346$).
+- **Non-Linear Advantage of Tree Boosters**: Linear TWFE assumes additive shocks across heterogeneous road links. Gradient boosting captures non-linear signal, tortuosity, and upstream recovery thresholds, reaching $R^2 = 0.3918$ on trams and $0.2331$ on suburban buses.
 
 ---
 
 ## Slide 7: Global Delay Attribution (TreeSHAP)
 
 ### Decomposing Delay Drivers Across Operational Domains
-- **Fleet & Corridor Topology (`signalized_intersection_count`, `is_tram`, `actual_path_length_meters`, `tortuosity_ratio`, `segment_length_meters`)**: Primary structural determinants of inter-stop running time variance.
-- **Upstream Delay & Recovery (`prev_stop_delay`, `headway_deviation`, `trip_progress`)**: Captures early-departure pacing, schedule slack absorption, upstream delay carryover, and vehicle bunching dynamics.
-- **Exact Additivity**: Verified across 24 features ($E[f(X)] = +5.40\text{s}$ positive net link running delay drift, $\max |\Delta| = 1.35 \times 10^{-13}\text{s}$).
+- **Fleet & Corridor Topology (`signalized_intersection_count` [SHAP `3.12`], `tortuosity_ratio` [`1.88`], `is_tram` [`1.67`], `actual_path_length_meters` [`1.66`], `segment_length_meters` [`1.03`])**: Primary structural determinants of inter-stop running time variance.
+- **Upstream Delay & Recovery (`headway_deviation` [`2.91`], `prev_stop_delay` [`2.89`], `trip_progress` [`1.40`], and interaction `prev_stop_delay × headway_deviation` [`1.31`])**: Captures early-departure pacing, schedule slack absorption, upstream delay carryover, and vehicle bunching dynamics.
+- **Exact Additivity**: Verified across 24 features ($E[f(X)] = +5.25\text{s}$ positive net link running delay drift, $\max |\Delta| = 2.34 \times 10^{-13}\text{s}$).
 
 *Exhibit*: `reports/figures/xai/shap_beeswarm_summary.png`, `reports/figures/xai/shap_waterfall_extreme_case_1.png`
 
@@ -150,9 +152,9 @@ $$\Delta t_{\text{run}, ist} = \alpha_i + \lambda_t + \beta_1 \text{Signals}_{is
 ### Does Dedicated Infrastructure Protect Against Operational Shocks?
 - **Pairwise SHAP Interaction Matrix**: $\Phi_{i, j}(x)$ exported to `reports/tables/xai/shap_interaction_matrix.csv`.
 - **Empirical Buffering Metrics**:
-  - **Upstream Delay (`prev_stop_delay`)**: Dedicated ROW mitigates **4.03s per stop link (48.7% reduction)** of delay under upstream congestion shocks.
-  - **Precipitation (`precipitation_mm`)**: Dedicated ROW mitigates **3.17s per stop link (36.8% reduction)** during rainfall.
-  - **Signalized Intersections & Headway Bunching**: Dedicated ROW saves **3.02s/link (21.4% reduction)** across signalized corridors and **1.49s/link (9.6% reduction)** under headway bunching.
+  - **Upstream Delay (`prev_stop_delay`)**: Dedicated ROW mitigates **3.26s per stop link (46.7% reduction)** of delay escalation under upstream congestion shocks.
+  - **Signalized Intersections (`signalized_intersection_count`)**: Dedicated ROW saves **1.50s/link (12.6% reduction)** across high-signal corridors.
+  - **Segment Distance (`segment_length_meters`)**: Dedicated ROW saves **0.73s/link (8.4% reduction)** on long inter-stop segments.
 
 *Exhibit*: `reports/figures/xai/interaction_headway_deviation_vs_dedicated_row.png`
 
@@ -160,17 +162,17 @@ $$\Delta t_{\text{run}, ist} = \alpha_i + \lambda_t + \beta_1 \text{Signals}_{is
 
 ## Slide 10: Actionable Counterfactual Remedies (DiCE)
 
-### Operational Remedies for Delayed Vehicles (50 Severe Incident Case Studies, Mean Delay 494.4s)
+### Operational Remedies for Delayed Vehicles (50 Severe Incident Case Studies, Mean Delay 529.0s)
 
 | Operational Remedy | Mean Delay Reduction | On-Time Restoration Rate ($\le 120$s) |
 | :--- | :--- | :--- |
-| **Dedicated ROW Upgrade ($ROW \to 1$)** | **+0.63s / stop link** saved | **0.0%** (single link cannot erase 8.2 min of prior delay) |
-| **Dynamic Headway Regularization** | **+1.73s / stop link** saved | **0.0%** (prevents bunching escalation per stop) |
-| **Transit Signal Priority ($TSP$)** | **+1.79s / stop link** saved | **0.0%** (cumulative corridor savings ~45s per 25-stop trip) |
-| **Upstream Delay Absorption (Turnaround Recovery)** | **+307.66s / incident** saved | **34.0%** (absorbs accumulated backlog at turnaround/hubs) |
-| **Joint Multimodal Remedy** | **+313.30s / incident** saved | **38.0%** (highest recovery + downstream link resilience) |
+| **Dedicated ROW Upgrade ($ROW \to 1$)** | **+0.72s / stop link** saved | **0.0%** (single link cannot erase 8.8 min of prior delay) |
+| **Dynamic Headway Regularization** | **+0.38s / stop link** saved | **0.0%** (prevents bunching escalation per stop) |
+| **Transit Signal Priority ($TSP$)** | **+3.45s / stop link** saved | **0.0%** (cumulative corridor savings ~86s per 25-stop trip) |
+| **Upstream Delay Absorption (Turnaround Recovery)** | **+331.00s / incident** saved | **30.0%** (absorbs accumulated backlog at turnaround/hubs) |
+| **Joint Multimodal Remedy** | **+337.97s / incident** saved | **30.0%** (highest recovery + downstream link resilience) |
 
-- **Key Policy Takeaway**: Link-level physical & signal upgrades (TSP + headway pacing + dedicated ROW) prevent incremental delay accumulation along a 25-stop corridor (~45–60s cumulative trip savings) and buffer against weather and signal shocks (21%–49% reduction), while turnaround schedule recovery absorption is essential to clear large pre-existing upstream backlogs.
+- **Key Policy Takeaway**: Link-level physical & signal upgrades (TSP + headway pacing + dedicated ROW) prevent incremental delay accumulation along a 25-stop corridor (~85–110s cumulative trip savings) and buffer against upstream and signal shocks (13%–47% reduction), while turnaround schedule recovery absorption is essential to clear large pre-existing upstream backlogs.
 
 *Exhibit*: `reports/figures/xai/counterfactual_policy_impact.png`, `reports/figures/xai/counterfactual_case_study.png`
 
@@ -181,18 +183,18 @@ $$\Delta t_{\text{run}, ist} = \alpha_i + \lambda_t + \beta_1 \text{Signals}_{is
 1. **Implement Dynamic Headway Pacing**:
    - Shift dispatch optimization from static schedule adherence to active headway holding at major transfer hubs (e.g., Rondo Daszyńskiego, Dworzec Centralny) to prevent delay cascading.
 2. **Target Dedicated ROW Upgrades**:
-   - Prioritize bus lane allocation on mixed-traffic corridors with severe weather and peak sensitivity (Urban & Suburban feeder corridors, Puławska, Al. Jerozolimskie).
+   - Prioritize bus lane allocation on mixed-traffic corridors with severe peak sensitivity (Urban & Suburban feeder corridors, Puławska, Al. Jerozolimskie).
 3. **Deploy Corridor-Wide Transit Signal Priority (TSP)**:
-   - Target TSP green-extension at high-density signalized intersections ($\ge 5$ signals/link) to save ~1.8s per link (~45s per route).
+   - Target TSP green-extension at high-density signalized intersections ($\ge 5$ signals/link) to save ~3.45s per link (~86s per 25-stop route).
 
 ---
 
 ## Slide 12: Engineering & Open Science Deliverables
 
 - **Codebase**: Fully reproducible, modular Python package.
-- **Production Daemons**: 10s Warsaw City API poller (`historian_daemon.py`) + GTFS-RT poller (`collector_daemon.py`).
-- **Scalability**: DuckDB hash-equi joins (5.61M rows fused in 15.0s) and memory downcasting supporting 4+ months (~72M records) with 100% bit-exact historical feature invariance.
-- **Unit & Integration Test Suite**: **100% pass rate across all unit and integration tests**.
+- **Production Daemons**: 10s Warsaw City API poller (`historian_daemon.py`) + GTFS-RT poller (`collector_daemon.py`) with automated daily Parquet materialization.
+- **Scalability**: Vectorized NumPy Silver/Gold reconstruction (**10.2× / 5.0× speedups** with multi-core parallelism) and DuckDB hash-equi joins (**11.80M rows fused in 39.7s**) with 100% bit-exact historical feature invariance.
+- **Unit & Integration Test Suite**: **100% pass rate across all 111 unit and integration tests**.
 - **Open Access**: Complete codebase, data pipelines, and documentation hosted at:  
   [`https://github.com/giangh14cqt/warsaw-public-transport-monitor`](https://github.com/giangh14cqt/warsaw-public-transport-monitor)
 
